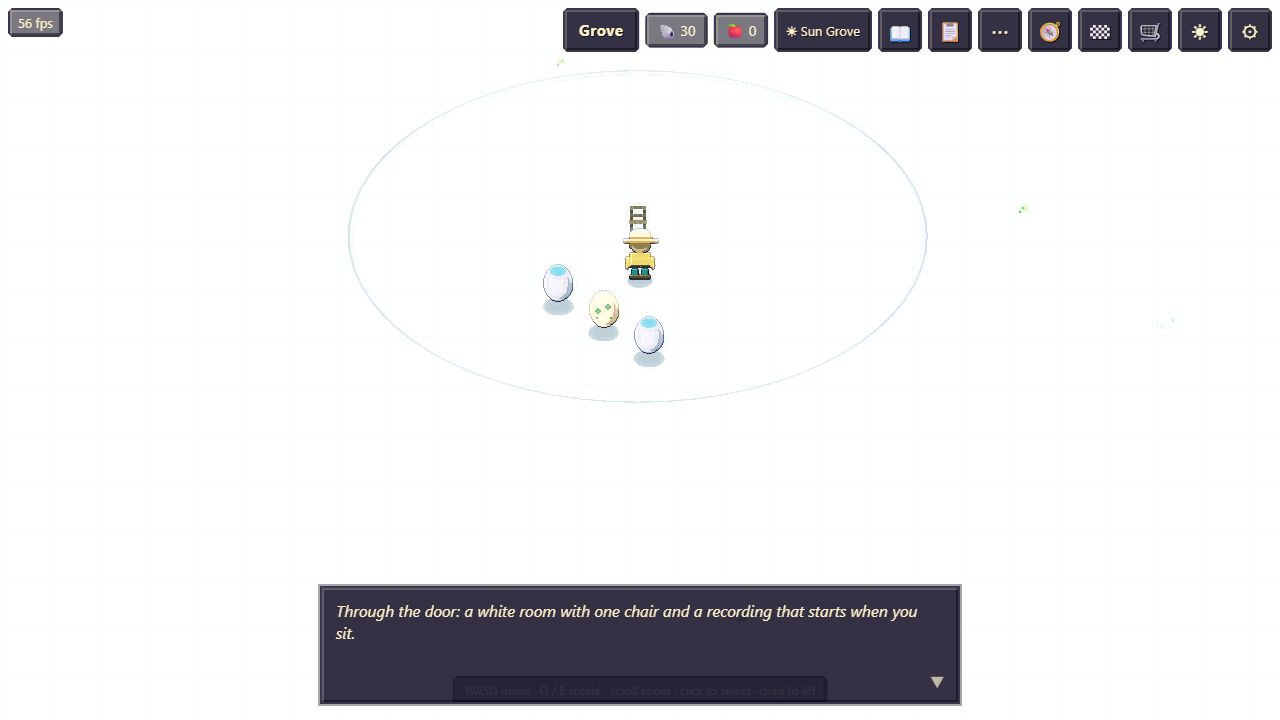
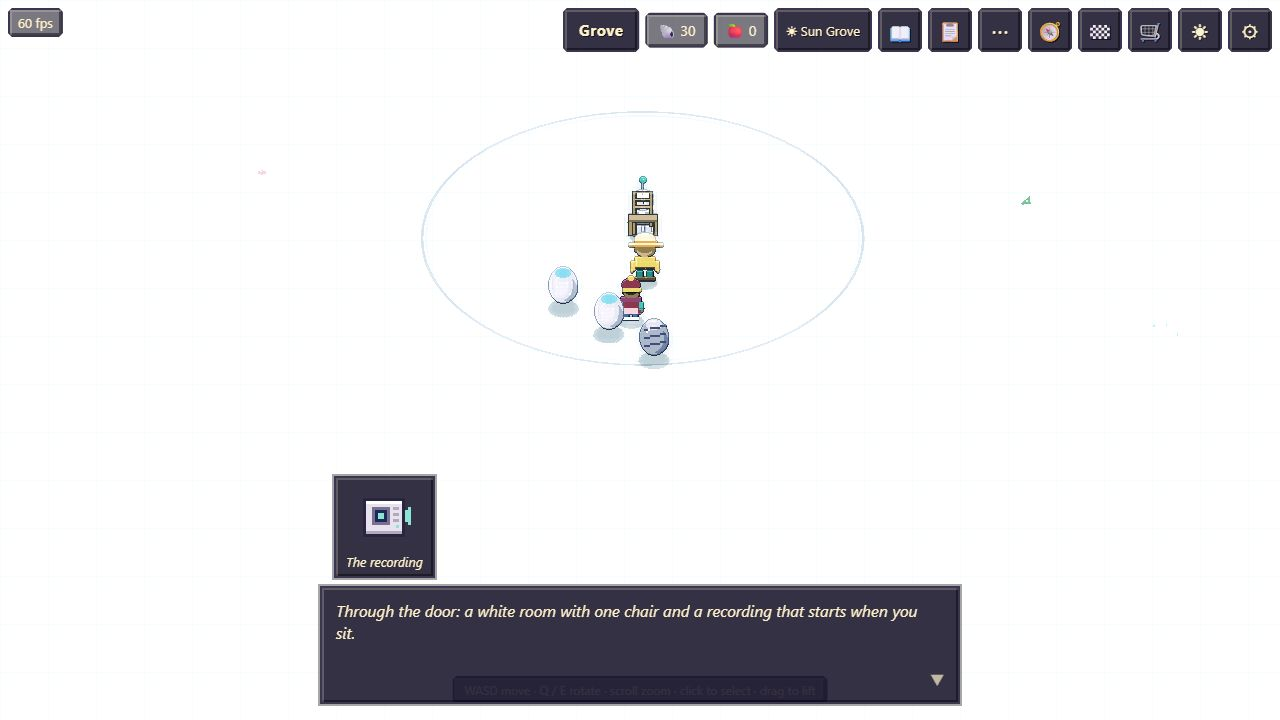
Size the pixel white room to the view and draw a clearer chair

Changed region(s): [[0.4062, 0.2444, 0.5312, 0.5194], [0.25, 0.6417, 0.3438, 0.825], [0.7812, 0.275, 0.8125, 0.3056]]

diff --git a/src/render/dress-s.ts b/src/render/dress-s.ts
@@ -37,6 +37,8 @@ let art: ArtS | null = null;
 let props: SpriteSheet | null = null;
 let clock = 0;
 let root: Group | null = null;
+/** The white room's floor disc, scaled so its radius is a share of the view's height. */
+let disc: Group | null = null;
 let below: Group | null = null;
 let grid: Mesh | null = null;
 let gridMat: MeshBasicMaterial | null = null;
@@ -68,11 +70,19 @@ function buildRoot(c: PixelDressCtx): Group {
   const g = new Group();
   g.name = 'dress-s-root';
   const m = rootMark();
-  const parts = [
-    flat(new PlaneGeometry(240, 240), basic(R.void), -0.06),
-    flat(new CircleGeometry(R.floorRadius, 48), basic(R.floor), -0.04, m),
-    flat(new RingGeometry(R.floorRadius, R.floorRadius + 0.07, 64), basic(R.horizon), -0.03, m),
-  ];
+  const parts = [flat(new PlaneGeometry(240, 240), basic(R.void), -0.06)];
+  // The disc and its horizon ring at unit radius, scaled each frame to the framing.
+  disc = new Group();
+  disc.position.set(m.x, 0, m.z);
+  for (const p of [
+    flat(new CircleGeometry(1, 48), basic(R.floor), -0.04),
+    flat(new RingGeometry(1, 1 + R.rimShare, 64), basic(R.horizon), -0.03),
+  ]) {
+    c.track(p.geometry);
+    c.track(p.material as MeshBasicMaterial);
+    disc.add(p);
+  }
+  g.add(disc);
   for (const p of parts) {
     c.track(p.geometry);
     c.track(p.material as MeshBasicMaterial);
@@ -130,6 +140,24 @@ function buildGrid(c: PixelDressCtx): Mesh | null {
   return mesh;
 }
 
+/**
+ * The room's radius in world units: `CG2_S.root.viewShare` of the HUD-safe view's height,
+ * measured through the pixel camera round the chair (the floor's ellipse is widest across
+ * the screen, so the larger of the two axes' spans sets the scale).
+ */
+function roomRadius(c: PixelDressCtx): number {
+  const R = CG2_S.root;
+  const m = rootMark();
+  const o = c.camera.toScreen(m.x, 0, m.z);
+  const ax = c.camera.toScreen(m.x + 1, 0, m.z);
+  const az = c.camera.toScreen(m.x, 0, m.z + 1);
+  if (!o || !ax || !az) return R.floorRadius;
+  const ppu = Math.max(Math.hypot(ax.x - o.x, ax.y - o.y), Math.hypot(az.x - o.x, az.y - o.y));
+  if (ppu < 1e-3) return R.floorRadius;
+  const want = (c.safeRect().h * R.viewShare) / ppu;
+  return Math.max(R.minRadius, Math.min(R.floorRadius, want));
+}
+
 export const dressS: PixelDressing = {
   id: 's',
   build(c) {
@@ -139,6 +167,7 @@ export const dressS: PixelDressing = {
     if (art) c.track(art.sheet);
     props = null;
     root = null;
+    disc = null;
     below = null;
     grid = null;
     gridMat = null;
@@ -156,6 +185,11 @@ export const dressS: PixelDressing = {
     clock += dt;
     const s = setsS(world, stage);
     if (root) root.visible = s.root;
+    if (s.root && disc) {
+      // Across only: a lift would sink the disc under the void.
+      const r = roomRadius(ctx);
+      disc.scale.set(r, 1, r);
+    }
     if (below) below.visible = s.below;
     if (grid && gridMat) {
       grid.visible = s.digital;
@@ -182,6 +216,25 @@ export const dressS: PixelDressing = {
         opacity,
       });
     };
+
+    if (s.root) {
+      // The chair, larger than package f's, so it reads at the close framing.
+      const rm = rootMark();
+      const r = a.frame('chair');
+      const h = CG2_S.root.chairH;
+      sp.batch.draw({
+        sheet: a.sheet,
+        rect: r,
+        flip: false,
+        x: rm.x,
+        y: 0,
+        z: rm.z,
+        mode: 'billboard',
+        w: (h * r.w) / r.h,
+        h,
+        tint: 1,
+      });
+    }
 
     if (s.below) {
       const m = belowMark();

diff --git a/src/render/art-s.ts b/src/render/art-s.ts
@@ -114,6 +114,41 @@ function spark(s: number): Paint {
   };
 }
 
+/**
+ * The Root Node's one chair, 28 by 40, seen three-quarter: a dark outline round a pale
+ * wooden back with two slats, the seat as a lit top face, four legs. Shape first, so it
+ * reads on white without its colour.
+ */
+function chair(c: CanvasRenderingContext2D): void {
+  const ink = '#3a2c22';
+  const wood = '#b9895a';
+  const lit = '#d9ad7a';
+  const dark = '#8a6240';
+  // Back legs and back frame.
+  rect(c, ink, 5, 1, 18, 2);
+  rect(c, ink, 5, 1, 4, 37);
+  rect(c, ink, 19, 1, 4, 30);
+  rect(c, wood, 6, 2, 2, 35);
+  rect(c, wood, 20, 2, 2, 28);
+  rect(c, wood, 6, 2, 16, 1);
+  // Slats.
+  for (const y of [7, 13]) {
+    rect(c, ink, 8, y, 12, 3);
+    rect(c, lit, 8, y + 1, 12, 1);
+  }
+  // Seat: top face lit, front edge dark.
+  rect(c, ink, 2, 20, 25, 8);
+  rect(c, lit, 3, 21, 23, 4);
+  rect(c, dark, 3, 25, 23, 2);
+  // Front legs.
+  rect(c, ink, 2, 27, 4, 12);
+  rect(c, ink, 23, 27, 4, 12);
+  rect(c, wood, 3, 27, 2, 11);
+  rect(c, wood, 24, 27, 2, 11);
+  // A floor shadow under it.
+  rect(c, 'rgba(60,64,90,0.25)', 0, 38, 28, 2);
+}
+
 function drip(c: CanvasRenderingContext2D): void {
   rect(c, 'rgba(170,215,255,0.5)', 0, 0, 2, 3);
   rect(c, 'rgba(200,230,255,0.85)', 0, 3, 2, 3);
@@ -154,6 +189,7 @@ export function buildArtS(): ArtS | null {
   const list: Array<[string, number, number, Paint]> = [
     ['board-edge', 80, 100, boardEdge],
     ['door', 40, 80, door],
+    ['chair', 28, 40, chair],
     ['drip', 2, 8, drip],
     ['ripple', 12, 6, ripple],
     ['glow', 32, 32, glow],

diff --git a/src/config/tuning-s.ts b/src/config/tuning-s.ts
@@ -13,6 +13,12 @@ export const CG2_S = {
     horizon: '#c4c8d6',
     /** The chair's scale in 3D (the prop kit's chair is a child's size). */
     chairScale: 1.6,
+    /** Pixel: the room's radius as a share of the safe view's height, its floor and ceiling. */
+    viewShare: 0.34,
+    minRadius: 2.5,
+    /** Pixel: the horizon ring's width as a share of the radius, and the chair's height. */
+    rimShare: 0.012,
+    chairH: 1.5,
     /** 3D: the whites are lifted past 1 so the warm grade leaves them white. */
     gain: 1.45,
   },
